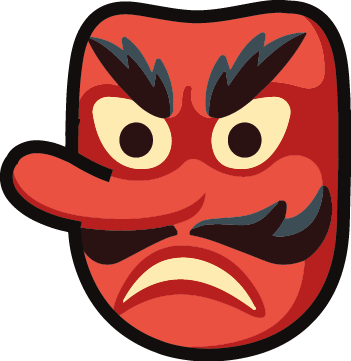
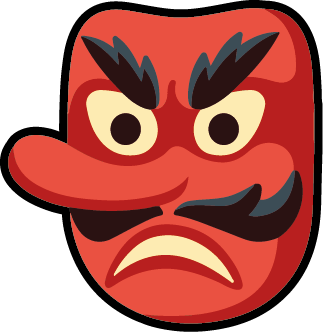
cambio de imagen de demonios al dispararles

diff --git a/javascript/game.js b/javascript/game.js
@@ -25,6 +25,9 @@ class Game {
         this.demonio = new Demonio()
         this.demonioArr = [];
 
+        this.bigDemonio = new BigDemonio()
+        this.bigDemonioArr = [];
+
         this.luckyCat = new LuckyCat()
         this.luckyCatArr = [];
 
@@ -80,6 +83,14 @@ class Game {
 
         }
     }
+    bigDemonioAparece = ()=>{
+        if(this.bigDemonioArr.length === 0 || this.frames % 600 === 0) {
+            let randomPosY = Math.random() * (canvas.height-this.bigDemonio.h)
+            let randomBigDemonio = new BigDemonio(randomPosY)
+            this.bigDemonioArr.push(randomBigDemonio)
+
+        }
+    }
     disparoSumo = () => {
         if(this.puedeDisparar){
             let newDisparo = new Disparo(this.sumo.x, this.sumo.y+(this.sumo.h/2))
@@ -128,7 +139,7 @@ class Game {
             eachDemonio.h + eachDemonio.y > this.sumo.y
           ) {
             this.demonioArr.splice(index, 1)
-            this.score -=10
+            this.score -=20
             this.soundSumoDemonio.play()
          }
           })
@@ -161,22 +172,51 @@ class Game {
     
     }
     colisionDemonioDisparo = () =>{
+        
+        this.disparoArr.forEach((eachDisparo) => {
         this.demonioArr.forEach ((eachDemonio, indexDemonio) => {
-        this.disparoArr.forEach((eachDisparo, indexDisparo) => {
+            //let contadorDisparos=0;
             if (
-                eachDemonio.x < eachDisparo.x + eachDisparo.w &&
-                eachDemonio.x + eachDemonio.w > eachDisparo.x &&
-                eachDemonio.y < eachDisparo.y + eachDisparo.h &&
-                eachDemonio.h + eachDemonio.y > eachDisparo.y
+                eachDisparo.x < eachDemonio.x + eachDemonio.w &&
+                eachDisparo.x + eachDisparo.w > eachDemonio.x &&
+                eachDisparo.y < eachDemonio.y + eachDemonio.h &&
+                eachDisparo.h + eachDisparo.y > eachDemonio.y
               ) {
-                this.demonio.image.src = "./images/humo.png"
+                //contadorDisparos +=1;
+                //console.log(contadorDisparos)
                 this.demonioArr.splice(indexDemonio, 1)
-                this.disparoArr.splice(indexDisparo, 1)
+                eachDisparo.image.src = "./images/humo.png"
+                eachDisparo.w = 120;
+                eachDisparo.h = 120;
                 this.soundDemonioDisparo.play()
-                
              }
               })
             })
+            
+    }
+    colisionBigDemonioDisparo = () =>{
+        this.bigDemonioArr.forEach ((eachBigDemonio) => {
+        this.disparoArr.forEach((eachDisparo, indexDisparo) => {
+            //let contadorDisparos = 0;
+            if (
+                eachBigDemonio.x < eachDisparo.x + eachDisparo.w &&
+                eachBigDemonio.x + eachBigDemonio.w > eachDisparo.x &&
+                eachBigDemonio.y < eachDisparo.y + eachDisparo.h &&
+                eachBigDemonio.h + eachBigDemonio.y > eachDisparo.y
+              ) {
+                //contadorDisparos +=1;
+                this.disparoArr.splice(indexDisparo, 1)
+                eachBigDemonio.image.src = "./images/demonioverde.png"
+                this.soundDemonioDisparo.play() 
+               
+              }
+               // if(contadorDisparos === 3) {
+              //  this.bigDemonioArr.splice(indexBigDemonio, 1)
+           //  }
+           //  console.log(contadorDisparos)
+           })
+            })
+            
     }
     colisionSumoLuckyCat = () => {
         this.luckyCatArr.forEach ((eachluckyCat, index) => {
@@ -262,6 +302,10 @@ class Game {
         this.demonioArr.forEach((eachDemonio) => {
             eachDemonio.moveDemonio()
         })
+        this.bigDemonioAparece()
+        this.bigDemonioArr.forEach((eachBigDemonio) => {
+            eachBigDemonio.moveBigDemonio()
+        })
         this.removeDemonios()
 
         // -------- Disparos --------- //
@@ -279,6 +323,7 @@ class Game {
         this.colisionSumoDemonio()
         this.colisionSumoFood()
         this.colisionDemonioDisparo()
+        this.colisionBigDemonioDisparo()
         this.colisionSumoLuckyCat()
         
 
@@ -297,6 +342,9 @@ class Game {
         })
         this.demonioArr.forEach((eachDemonio) => {
             eachDemonio.drawDemonio()
+        })
+        this.bigDemonioArr.forEach((eachBigDemonio) => {
+            eachBigDemonio.drawBigDemonio()
         })
         this.disparoArr.forEach((eachDisparo) => {
             eachDisparo.drawDisparo()

diff --git a/javascript/demonio.js b/javascript/demonio.js
@@ -9,7 +9,7 @@ class Demonio {
         this.speed = 4;
         this.image = new Image()
         this.image.src = "./images/demonio.png"
-        this.demonioDead = false;
+        this.isDemonioDead = false;
     }
     
     drawDemonio = () => {
@@ -19,15 +19,35 @@ class Demonio {
     moveDemonio = () => {
         this.x -=this.speed
     }
-   // demonioExplosion(){
-   //     this.image.src ="./images/explosion.png";
-   //     this.w = 100;
-    //    this.h = 100;
-   //     this.demonioDead = true;
-    //    setTimeout(()=>{
-    //      this.x = -100
-//
-   //      },800);
-   // }
+    deadDemonio = () => {
+        this.image.src ="./images/humo.png";
+        this.isDemonioDead = true;
+        setTimeout(() => {
+            this.x = -100;
+        },800)
+        }
+    }
     
+
+    class BigDemonio {
+
+        constructor(yPos) {
+    
+            this.x = canvas.width;
+            this.y = yPos;
+            this.w = 120;
+            this.h = 120;
+            this.speed = 1;
+            this.image = new Image()
+            this.image.src = "./images/demonio.png"
+        }
+        
+        drawBigDemonio = () => {
+            ctx.drawImage(this.image, this.x, this.y, this.w, this.h)
+        }
+        
+        moveBigDemonio = () => {
+            this.x -=this.speed
+        }
+        
     }

diff --git a/javascript/sushi.js b/javascript/sushi.js
@@ -52,7 +52,7 @@ class LuckyCat {
         
         this.x = xPos;
         this.y = canvas.height;
-        this.w = 80;
+        this.w = 60;
         this.h = 80;
         this.speed = 4;
 

diff --git a/styles/styles.css b/styles/styles.css
@@ -1,6 +1,6 @@
 @font-face {
   font-family: "shangai";
-  src:url("../fonts/shangai.ttf") format("truetype")
+  src:url("./fonts/shangai.ttf") format("truetype")
 }
 
 body {
